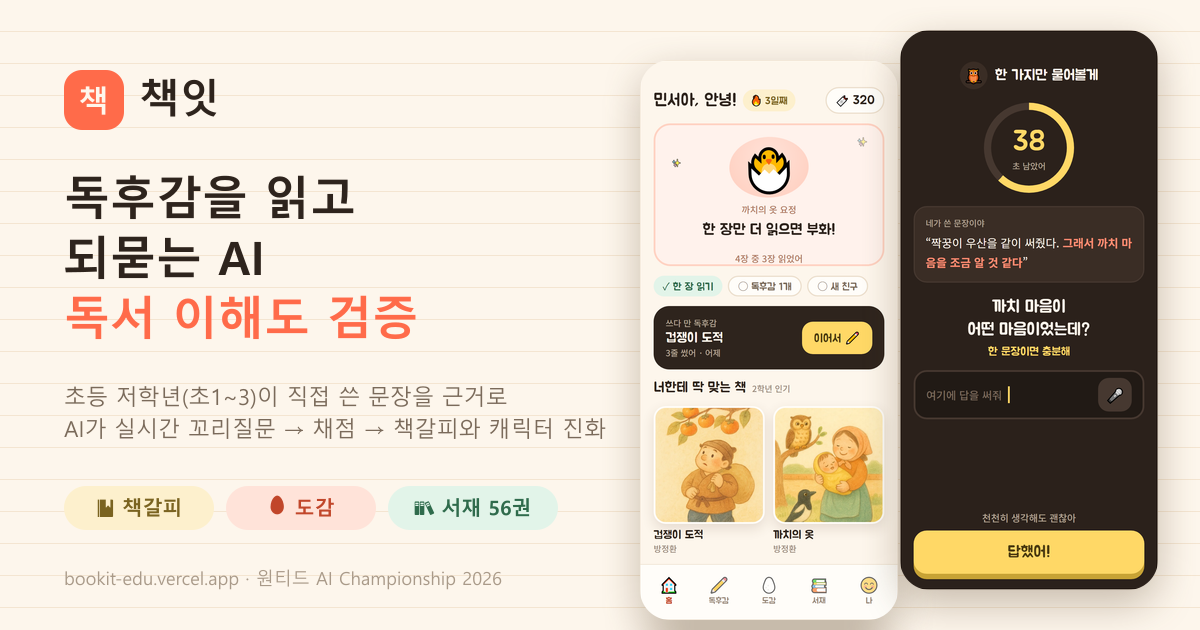
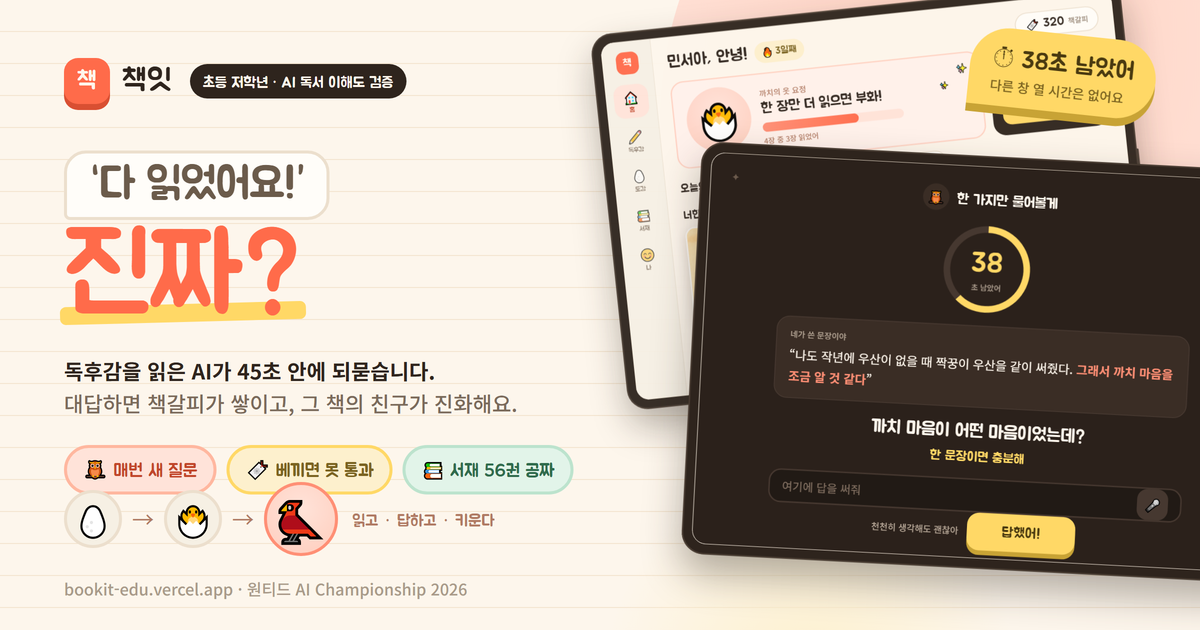
docs: 대표 이미지 v2 — “다 읽었어요!” 진짜? 후킹 + 태블릿 목업 2대
원본 HTML 을 docs/mockups/submission-cover.html 로 남긴다 (프레임 iframe 은 목업 9 의 02·06).

diff --git a/docs/mockups/submission-cover.html b/docs/mockups/submission-cover.html
@@ -1,0 +1,89 @@
+<!doctype html>
+<html lang="ko">
+<head>
+<meta charset="utf-8">
+<link rel="preconnect" href="https://fonts.googleapis.com">
+<link rel="preconnect" href="https://fonts.gstatic.com" crossorigin>
+<link href="https://fonts.googleapis.com/css2?family=Jua&family=Noto+Sans+KR:wght@400;500;700;900&display=swap" rel="stylesheet">
+<style>
+  * { box-sizing: border-box; }
+  body { margin: 0; width: 1200px; height: 630px; overflow: hidden; background: #FDF6EC;
+         background-image: repeating-linear-gradient(#FDF6EC 0 31px, #F4E5D1 31px 32px);
+         font-family: 'Noto Sans KR', sans-serif; color: #2E241D; position: relative; }
+  .blob { position: absolute; border-radius: 50%; }
+  .blob.a { width: 760px; height: 760px; right: -220px; top: -260px; background: radial-gradient(circle at 40% 40%, #FFD2C2, #FFE3D9 60%, rgba(255,227,217,0) 72%); }
+  .blob.b { width: 420px; height: 420px; right: 180px; bottom: -260px; background: radial-gradient(circle, #FDF0CD, rgba(253,240,205,0) 70%); }
+
+  .left { position: absolute; left: 64px; top: 58px; width: 540px; }
+  .brand { display: flex; align-items: center; gap: 12px; }
+  .brand .mark { width: 46px; height: 46px; border-radius: 14px; background: #FF6B4A; color: #FFF6EC; font: 400 24px 'Jua'; display: flex; align-items: center; justify-content: center; box-shadow: 0 6px 0 #D94F32; }
+  .brand .name { font: 400 30px 'Jua'; }
+  .brand .tag { margin-left: 6px; background: #2E241D; color: #FDF6EC; font: 400 15px 'Jua'; padding: 6px 13px; border-radius: 999px; }
+
+  h1 { margin: 34px 0 0; font: 400 72px/1.08 'Jua'; letter-spacing: -1.5px; }
+  h1 .q { display: inline-block; position: relative; color: #FF6B4A; font-size: 110px; line-height: 1; margin-top: 2px; }
+  h1 .q::after { content: ""; position: absolute; left: -4px; right: -4px; bottom: 10px; height: 18px; background: #FFD866; z-index: -1; border-radius: 6px; transform: rotate(-1.5deg); }
+  h1 .bubble { display: inline-block; background: #FFFDF9; border: 3px solid #ECDFCD; border-radius: 22px 22px 22px 6px; padding: 8px 20px; font-size: 44px; color: #6B5B4B; position: relative; }
+  .sub { margin-top: 22px; font: 500 21px/1.55 'Noto Sans KR'; color: #7A6A5A; }
+  .sub b { color: #2E241D; font-weight: 700; }
+  .chips { display: flex; gap: 10px; margin-top: 26px; flex-wrap: wrap; }
+  .chip { display: flex; align-items: center; gap: 7px; padding: 9px 16px; border-radius: 999px; font: 400 18px 'Jua'; border: 3px solid; }
+  .chip.y { background: #FDF0CD; border-color: #FFD866; color: #7A6320; }
+  .chip.c { background: #FFE3D9; border-color: #FFB79F; color: #C1462A; }
+  .chip.g { background: #E2F4E9; border-color: #BCE3CD; color: #2F6B4C; }
+  .url { position: absolute; left: 64px; bottom: 30px; font: 500 16px 'Noto Sans KR'; color: #A99A89; }
+
+  /* 진화 줄 — 알 → 부화 → 새 */
+  .evo { position: absolute; left: 64px; bottom: 74px; display: flex; align-items: center; gap: 10px; }
+  .evo .egg { width: 58px; height: 58px; border-radius: 50%; display: flex; align-items: center; justify-content: center; font-size: 30px; background: #F6F0E4; border: 3px solid #ECDFCD; }
+  .evo .arrow { font: 400 22px 'Jua'; color: #B07A63; }
+  .evo .big { width: 74px; height: 74px; font-size: 40px; background: radial-gradient(circle at 50% 35%, #FFE3D9, #FFCDBD); border-color: #FF8F75; }
+  .evo .lab { font: 400 16px 'Jua'; color: #B07A63; margin-left: 4px; }
+
+  /* 태블릿 */
+  .tab { position: absolute; width: 1194px; height: 834px; transform-origin: 0 0; }
+  .tab .bezel { position: absolute; inset: -22px; border-radius: 48px; background: #2E241D; box-shadow: 0 40px 80px rgba(46,36,29,.35), inset 0 0 0 3px #4a3d33; }
+  .tab .bezel::after { content: ""; position: absolute; top: 50%; right: -4px; width: 6px; height: 90px; margin-top: -45px; background: #4a3d33; border-radius: 3px; }
+  .tab iframe { position: absolute; inset: 0; width: 1194px; height: 834px; border: 0; border-radius: 30px; background: #FDF6EC; }
+  .tab.back { left: 600px; top: 44px; transform: scale(.43) rotate(-6deg); opacity: .96; }
+  .tab.front { left: 712px; top: 152px; transform: scale(.47) rotate(3deg); }
+
+  /* 타이머 콜아웃 */
+  .callout { position: absolute; right: 44px; top: 34px; background: #FFD866; color: #4A3A10; font: 400 24px 'Jua'; padding: 12px 22px; border-radius: 999px 999px 999px 8px; box-shadow: 0 8px 0 #C8A335; transform: rotate(6deg); z-index: 5; }
+  .callout small { display: block; font: 500 13px 'Noto Sans KR'; color: #7A6320; margin-top: 2px; }
+</style>
+</head>
+<body>
+  <div class="blob a"></div>
+  <div class="blob b"></div>
+
+  <div class="left">
+    <div class="brand">
+      <span class="mark">책</span><span class="name">책잇</span>
+      <span class="tag">초등 저학년 · AI 독서 이해도 검증</span>
+    </div>
+    <h1>
+      <span class="bubble">“다 읽었어요!”</span><br>
+      <span class="q">진짜?</span>
+    </h1>
+    <p class="sub"><b>독후감을 읽은 AI가 45초 안에 되묻습니다.</b><br>대답하면 책갈피가 쌓이고, 그 책의 친구가 진화해요.</p>
+    <div class="chips">
+      <span class="chip c">🦉 매번 새 질문</span>
+      <span class="chip y">🔖 베끼면 못 통과</span>
+      <span class="chip g">📚 서재 56권 공짜</span>
+    </div>
+  </div>
+
+  <div class="evo">
+    <span class="egg">🥚</span><span class="arrow">→</span>
+    <span class="egg">🐣</span><span class="arrow">→</span>
+    <span class="egg big">🐦</span>
+    <span class="lab">읽고 · 답하고 · 키운다</span>
+  </div>
+  <div class="url">bookit-edu.vercel.app · 원티드 AI Championship 2026</div>
+
+  <div class="tab back"><div class="bezel"></div><iframe src="9 저학년 개편 (태블릿).dc.html 의 02 홈 프레임"></iframe></div>
+  <div class="tab front"><div class="bezel"></div><iframe src="9 저학년 개편 (태블릿).dc.html 의 06 꼬리질문 프레임"></iframe></div>
+  <div class="callout">⏱ 38초 남았어<small>다른 창 열 시간은 없어요</small></div>
+</body>
+</html>
